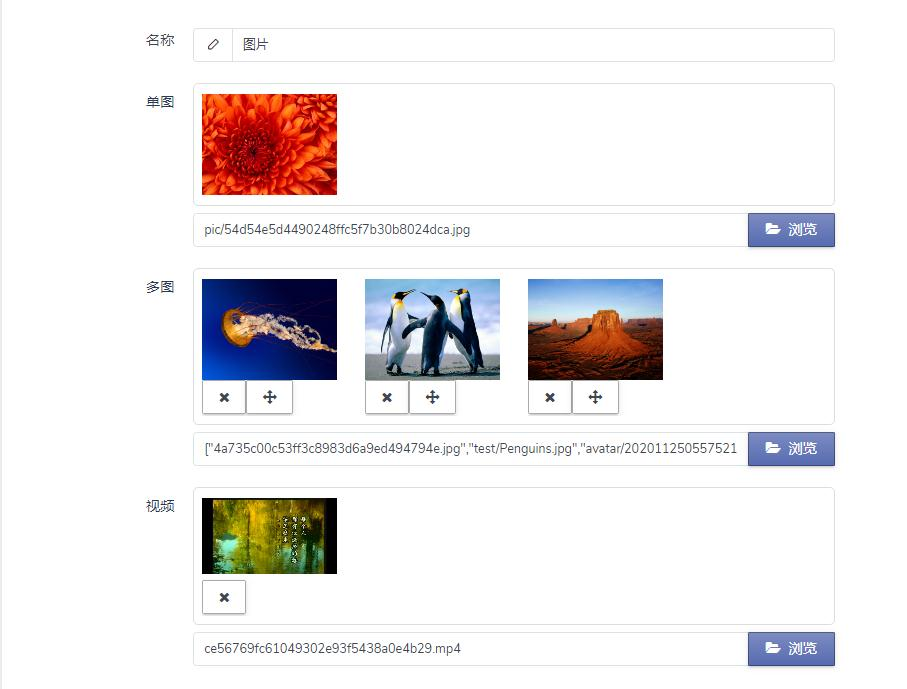
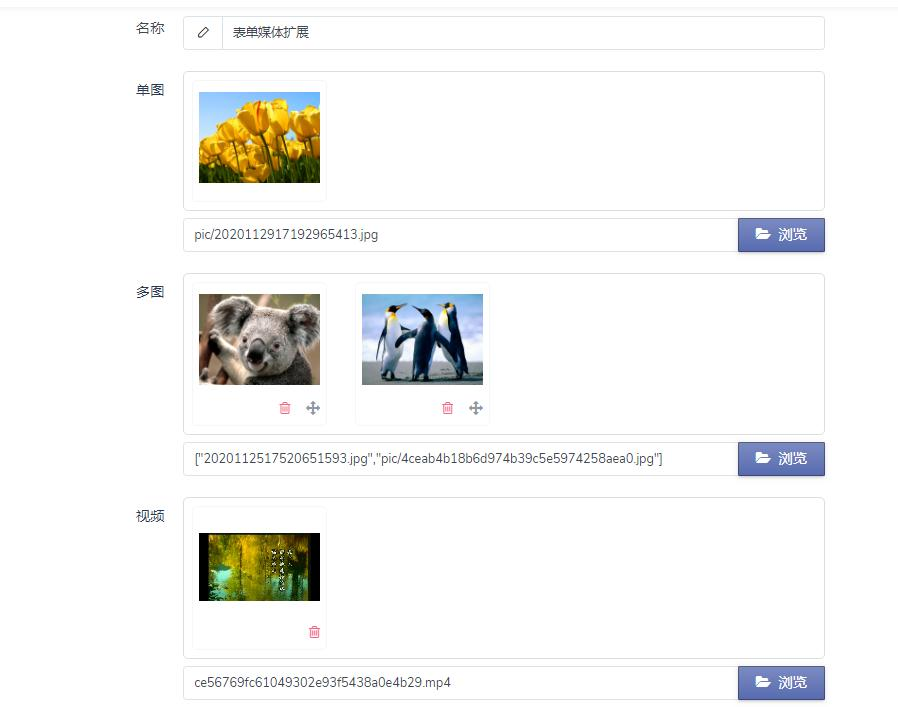
优化预览列表显示

diff --git a/resources/assets/field.css b/resources/assets/field.css
@@ -1,14 +1,20 @@
 .lake-form-media .lake-form-media-img-show {
     border-radius: 5px;
-    border: 1px solid #ddd;
+    border: 1px solid #e9ecec;
     padding: 8px;
     width: 100%;
     margin-bottom: 5px;
 }
 .lake-form-media .lake-form-media-row-col {
     overflow: hidden;
-    padding: 5px 0;
+    padding: 5px 6px;
     position: relative;
+    border: 1px solid #f5f6f9;
+    border-radius: 5px;
+    background: #fff;
+}
+.lake-form-media .lake-form-media-row-col:hover {
+    border: 1px solid #dfe1e6;
 }
 .lake-form-media .lake-form-media-row-col .lake-form-media-row-img {
     height: 110px;
@@ -29,9 +35,29 @@
     padding-top: 20px;
 }
 .lake-form-media .lake-form-media-row-col .caption {
+    text-align: right;
 }
 .lake-form-media .lake-form-media-row-col .caption .btn {
-    padding: .54rem 1.1rem!important;
+    line-height: 1.1 !important;
+    padding: .25rem 0 .25rem 1.1rem !important;
+    height: auto !important;
+    box-shadow: none !important;
+    border: 0px !important;
+    color: #8f98a7 !important;
+}
+.lake-form-media .lake-form-media-row-col .caption .btn.lake-form-media-img-show-item-delete i {
+    color: #f76687;
+}
+.lake-form-media .lake-form-media-row-col .caption .btn.lake-form-media-img-show-item-delete:hover i {
+    color: #f7055e;
+    font-weight: bold;
+}
+.lake-form-media .lake-form-media-row-col .caption .btn.lake-form-media-img-show-item-dragsort i {
+    color: #8f98a7;
+}
+.lake-form-media .lake-form-media-row-col .caption .btn.lake-form-media-img-show-item-dragsort:hover i {
+    color: #292e35;
+    font-weight: bold;
 }
 
 .lake-form-media-modal .lake-form-media-body-table .files>li {

diff --git a/resources/assets/field.js b/resources/assets/field.js
@@ -674,10 +674,10 @@ $(function () {
                 
                 html += '<div class="caption">';
                 if (remove) {
-                    html += '<a type="button" class="btn btn-default file-delete-multiple lake-form-media-img-show-item-delete" data-url="'+urlList[i]+'" title="移除"><i class="fa fa-times"></i></a>';
+                    html += '<span class="btn btn-default file-delete-multiple lake-form-media-img-show-item-delete" data-url="'+urlList[i]+'" title="移除"><i class="fa fa-trash-o"></i></span>';
                 }
                 if (limit > 1) {
-                    html += '<a href="javascript:;" type="button" class="btn btn-default js-dragsort" title="拖动"><i class="fa fa-arrows"></i></a>';
+                    html += '<span class="btn btn-default lake-form-media-img-show-item-dragsort js-dragsort" title="拖动"><i class="fa fa-arrows"></i></span>';
                 }
                 html += '</div>';
                 

diff --git a/version.php b/version.php
@@ -1,13 +1,13 @@
 <?php
 
 return [
-    '1.0.7' => [
-        '修复多图最大选中判断错误问题。',
-    ],
     '1.0.8' => [
         '修复链接图片视频不能预览问题。',
     ],
     '1.0.9' => [
         '添加列表排序按钮。列表媒体根据类型显示相应数据。',
+    ],
+    '1.0.10' => [
+        '优化预览列表显示。',
     ],
 ];

diff --git a/README.md b/README.md
@@ -4,7 +4,7 @@
 ## 预览
 
 ### 表单
-![form](https://user-images.githubusercontent.com/24578855/100266414-beec0d80-2f8c-11eb-9a5c-37f450e3be22.jpg)
+![form](https://user-images.githubusercontent.com/24578855/105875109-5aa30400-6038-11eb-9b5c-1c833e0c6b92.jpg)
 
 ### 动态表单
 ![form-array](https://user-images.githubusercontent.com/24578855/100456207-f24caa80-30fa-11eb-86a3-a8e3d2102655.jpg)
